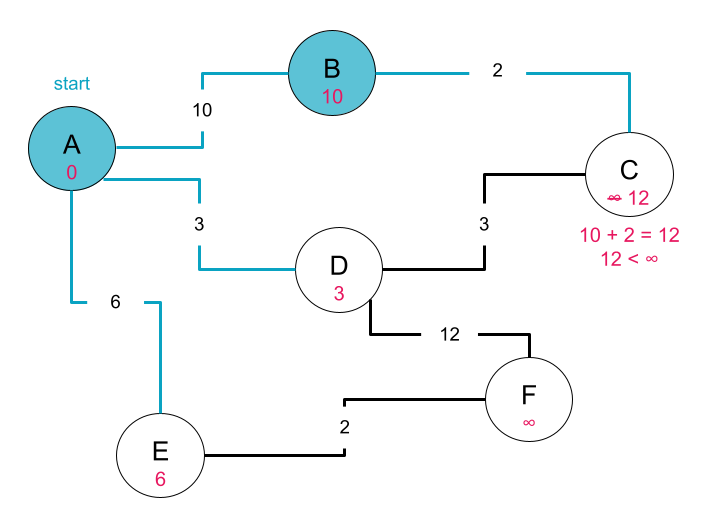
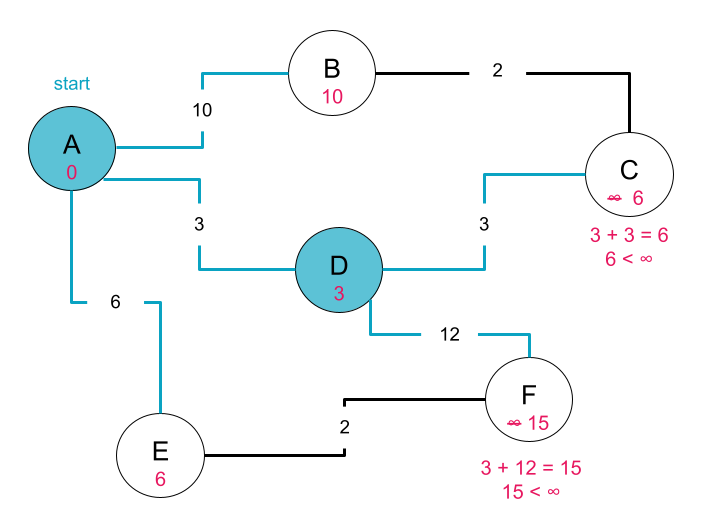
Update step 3 explanation

diff --git a/09-graphs-p2/02-dijkstra.md b/09-graphs-p2/02-dijkstra.md
@@ -46,7 +46,7 @@ costs/distances:
     - F: ∞
 ```
 ![Dijkstra's Walkthrough Part 2](./images/dijkstras-2.png)
-Step 2. We look at each of the edges of the start node, Node A. For each of Node A's edges, we check if the cost to travel along that edge to its neighbor is less than the current estimate of the cost to reach that neighbor. If so, we reset the distance of that neighbor to be equal to the weight of the edge. Since at this point in our traversal, all of the nodes have an estimated cost of infinity, the cost of traveling to each of Node A's neighbors will decrease.
+Step 2. We begin by visiting our start node, Node A, and looking at each of its edges. For each of Node A's edges, we check if the cost to travel along that edge to its neighbor is less than the current estimate of the cost to reach that neighbor. If so, we reset the distance of that neighbor to be equal to the weight of the edge. Since at this point in our traversal, all of the nodes have an estimated cost of infinity, the cost of traveling to each of Node A's neighbors will decrease.
 
 For example, in the diagram above the edge from Node A to Node B has a weight of 10. 10 is clearly less than our current estimate of the cost to travel from Node A to B, infinity, so we update the cost of traveling from Node A to Node B to be the lesser value of 10. 
 
@@ -68,32 +68,26 @@ costs/distances:
     - F: ∞
 ```
 ![Dijkstra's Walkthrough Part 3](./images/dijkstras-3.png)
-Step 3. Next, we look at the unvisited 
+Step 3. We choose to visit Node D next because of all the unvisited nodes, it is currently estimated to be closest to our start node, Node A. Using the same methodology as Step 2, we look at Node D's _untravelled_ edges.
 
+Node D has two unvisited edges, one to Node C and one to Node F. Notice that both of these nodes are not direct neighbors of our start node, Node A. Because our goal is to calculate the minimum cost to get from Node A to Nodes C and F, when considering whether we should update the cost to get to each of these nodes, we need to sum the cost of the edge from Node D to our destination node and whatever the cost to get from Node A to node D is. 
 
-. Exactly the same as step 2, we look at Node B's _untravelled_ edges.
-
-Node B's only unvisited edge is to Node C. Notice that Node C is not a direct neighbor of our start node, Node A. Because we are interested in calculating the minimum cost to get from Node A to Node C, when considering whether we should revise our current estimation of the cost, we need to sum the cost of the edge from Node B to Node C and whatever the cost to get from Node A to node B is. 
-
-From the work we did in Step 2, we know the cost to get to node B is 10. The weight of the dedge from Node B to C is 2. 10 + 2 = 12 which is less than the current estimate of infinity so we revise our estimate of the minimum cost to travel from Node A to Node C to be 12. 
-
+For example, from the work we did in Step 2, we know the cost to get from our start node to node D is 3. The weight of the edge from Node D to C is also 3. 3 + 3 = 6 which is less than the current estimate of infinity so we revise our estimate of the minimum cost to travel from Node A to Node C to be 6. 
 
 We add Node B to the list of visited nodes and update the queue with all Node B's unvisited neighbors.
 
 ```
-current: B
+current: D
 
-visited nodes: A, B 
-
-queue: D, E, C
+visited nodes: A, D
 
 costs/distances:
     - A: 0
     - B: 10
-    - C: 12
+    - C: 6
     - D: 3
     - E: 6
-    - F: ∞
+    - F: 15
 ```
 ![Dijkstra's Walkthrough Part 4](./images/dijkstras-4.png)
 Step 4. Now we look at the next node in the queue, Node D. 
